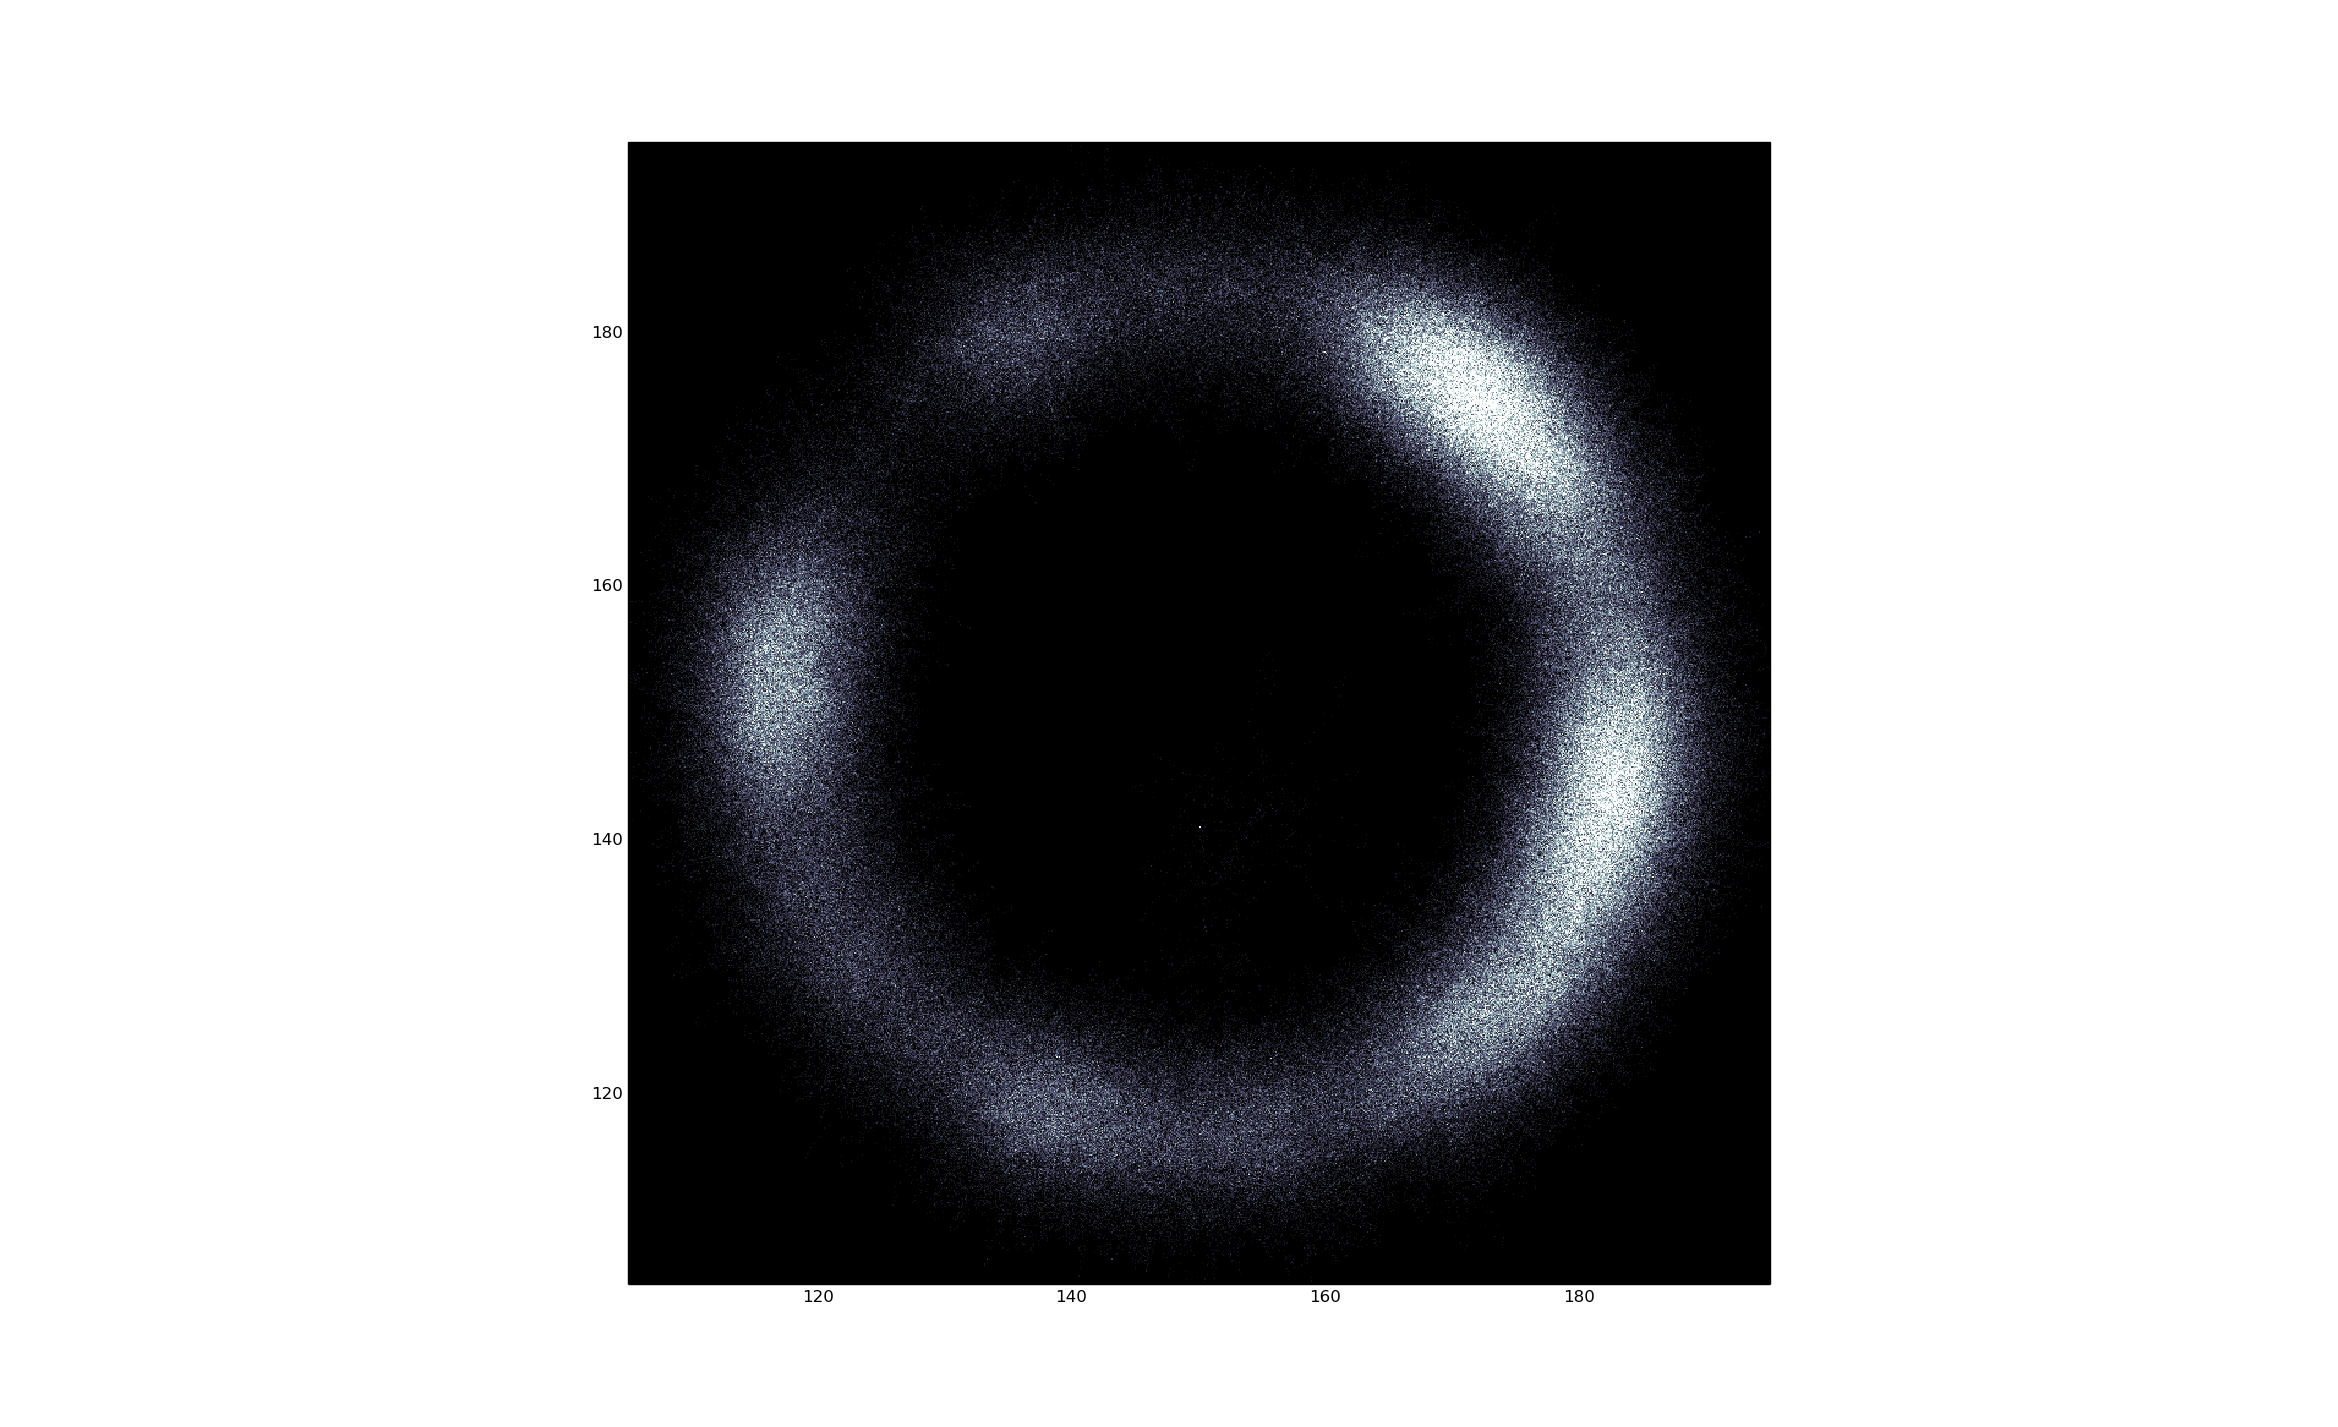
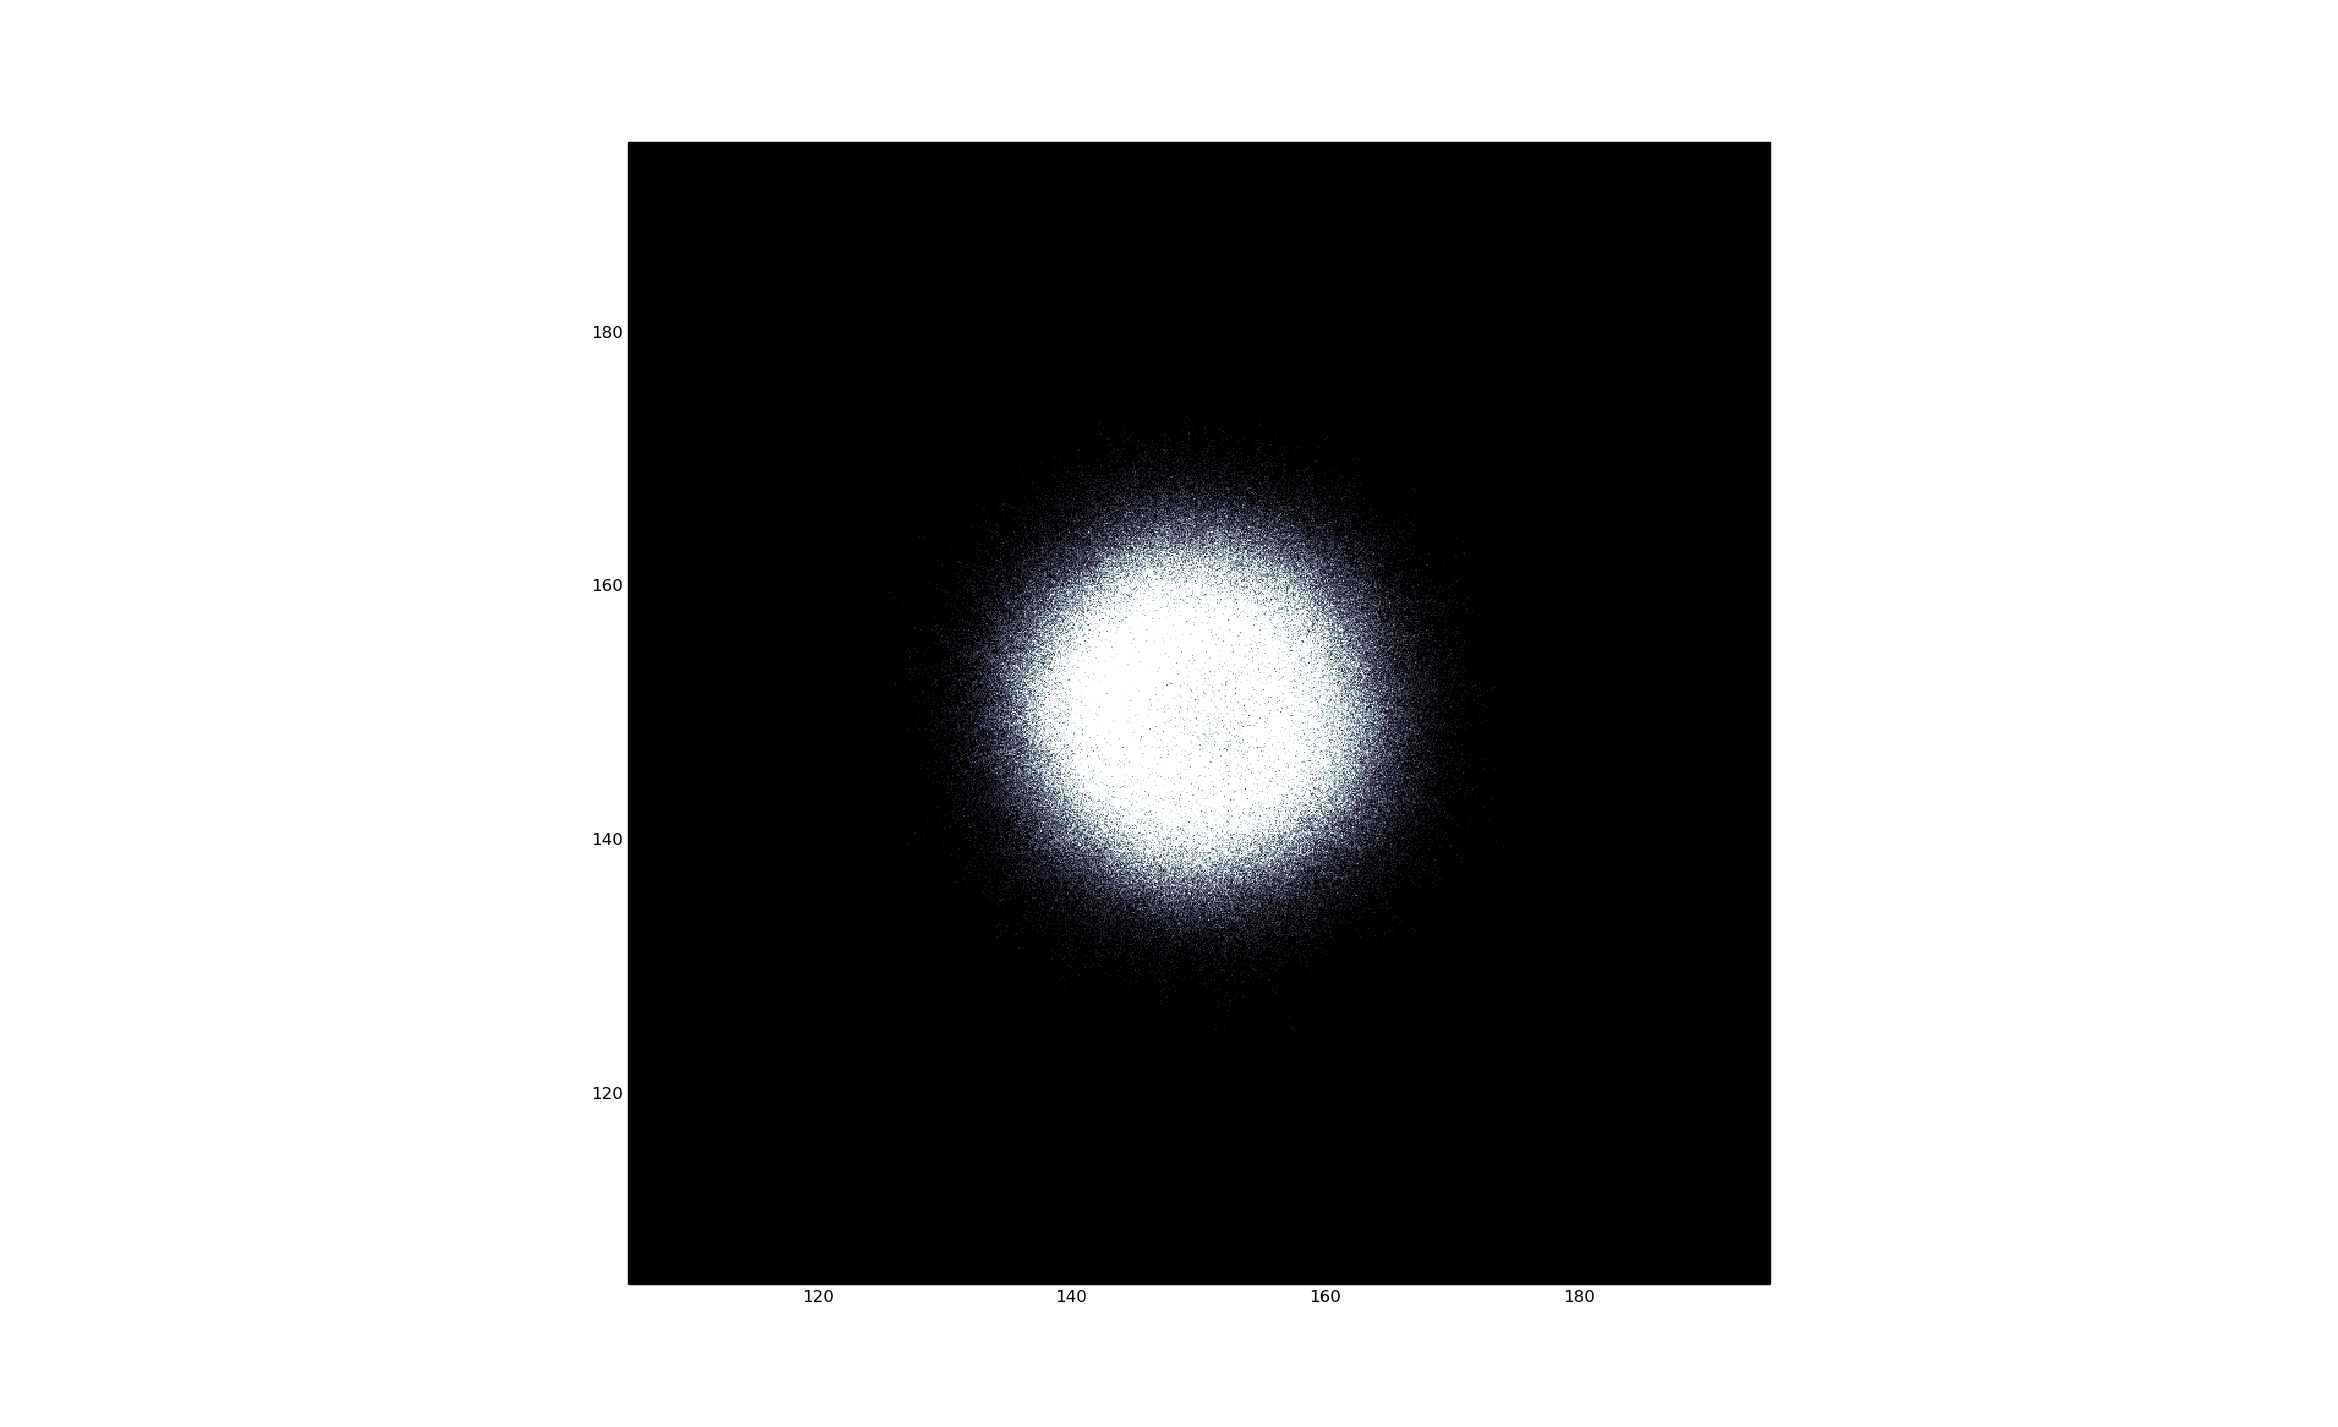
Membrane radius: 70

Changed region(s): [[0.281, 0.1233, 0.7494, 0.8633]]

diff --git a/main.py b/main.py
@@ -160,7 +160,7 @@ if __name__ == '__main__':
     runner.set_a_ball_mass(a_ball_mass)
 
     # Membrane size
-    sheet_radius    = 88
+    sheet_radius    = 70
     runner.set_sheet_radius(sheet_radius)
 
     # Ball starting postion
